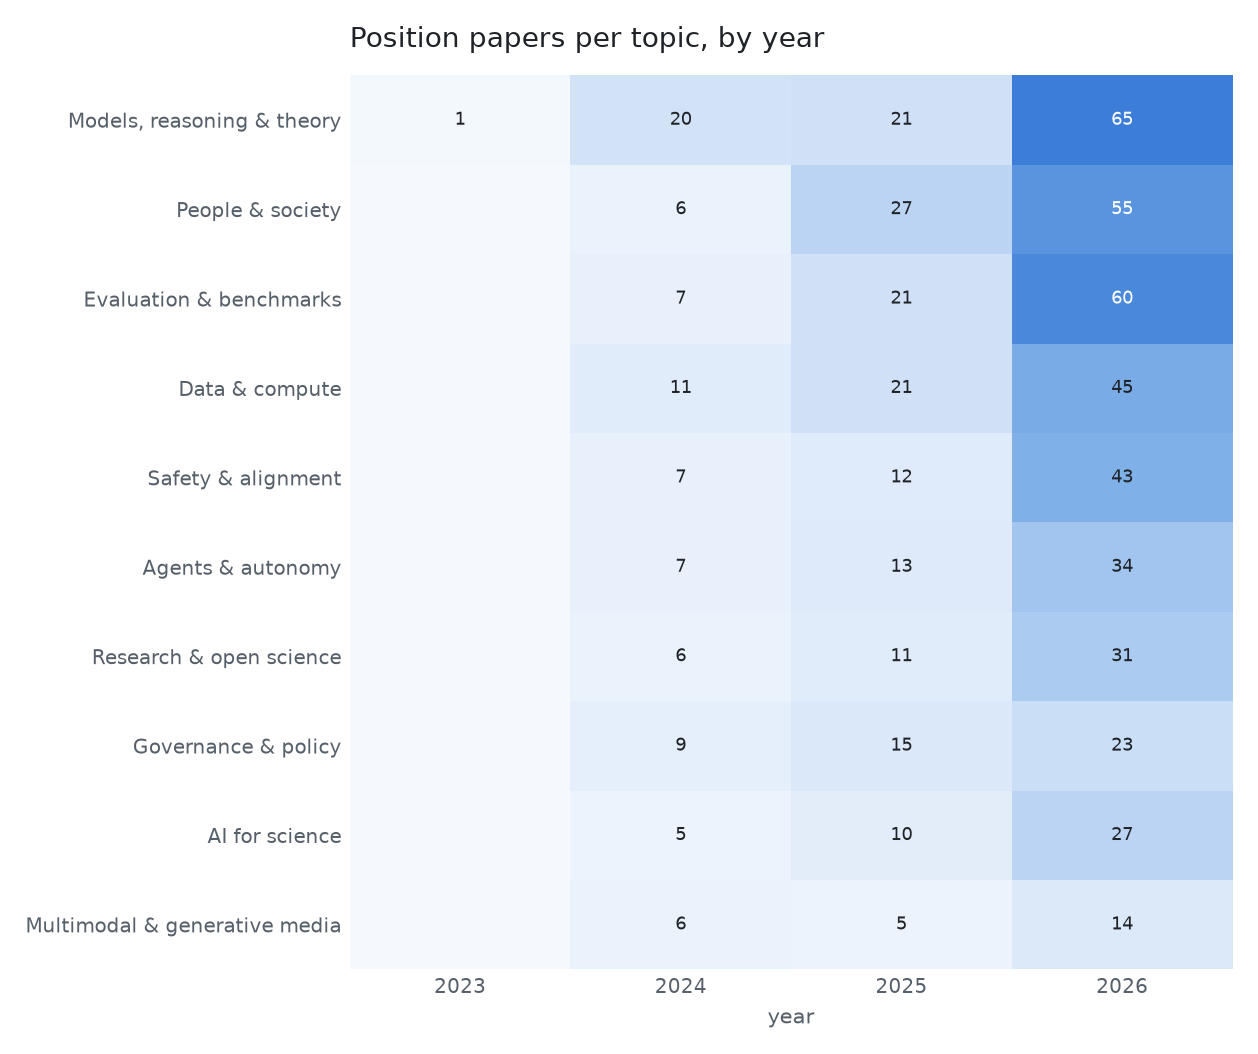
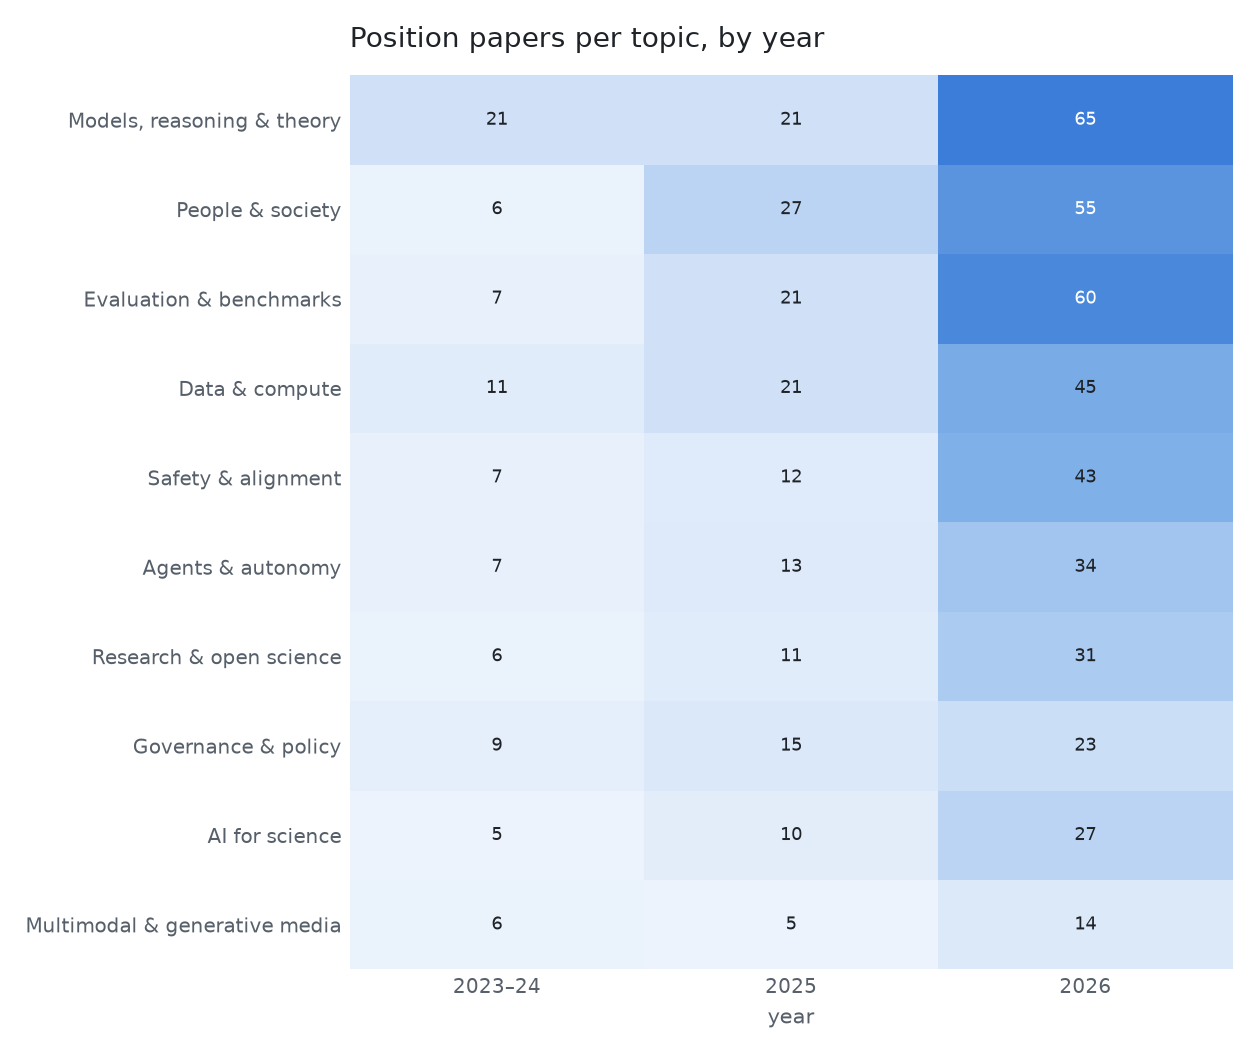
Polish: Pages link, one chart, hide zero citations, compact mobile header, update_all.sh

diff --git a/docs/index.html b/docs/index.html
@@ -145,9 +145,10 @@
     @media (max-width: 720px) {
       .container { width: min(100% - 28px, 1120px); }
       .header-inner { min-height: 66px; gap: 10px; }
-      .brand { max-width: 120px; line-height: 1.2; }
+      .brand { white-space: nowrap; font-size: 0.92rem; }
+      .brand-extra { display: none; }
       .header-actions { gap: 6px; }
-      .view-button, .theme-button { padding-inline: 10px; font-size: 0.85rem; }
+      .view-button, .theme-button { padding-inline: 9px; font-size: 0.85rem; }
       .hero { padding: 38px 0 26px; }
       .control-top, .paper-list { grid-template-columns: 1fr; }
       .controls { padding: 16px; }
@@ -166,7 +167,7 @@
   <a class="skip-link" href="#main">Skip to content</a>
   <header class="site-header">
     <div class="container header-inner">
-      <a class="brand" href="./">Awesome Position Papers</a>
+      <a class="brand" href="./"><span class="brand-extra">Awesome </span>Position Papers</a>
       <div class="header-actions">
         <nav class="view-nav" aria-label="Views">
           <button class="view-button" id="papers-view-button" type="button" aria-pressed="true" aria-controls="papers-view">Papers</button>
@@ -341,7 +342,7 @@
         var meta = element("div", "paper-meta");
         meta.appendChild(element("span", "topic-label", paper.topic));
         meta.appendChild(element("span", "", paper.venue + " · " + paper.year));
-        if (paper.citations !== null) { meta.appendChild(element("span", "", paper.citations + (paper.citations === 1 ? " citation" : " citations"))); }
+        if (paper.citations) { meta.appendChild(element("span", "", paper.citations + (paper.citations === 1 ? " citation" : " citations"))); }
         if (paper.essential) { meta.appendChild(element("span", "essential-badge", "Essential")); }
         card.appendChild(meta);
         card.appendChild(paperLink(paper, "h2"));

diff --git a/scripts/stats.py b/scripts/stats.py
@@ -36,24 +36,6 @@ def _figure_setup(fig, ax) -> None:
     ax.tick_params(colors=SOFT, length=0)
 
 
-def chart_topic(df: pd.DataFrame, out: str) -> None:
-    counts = df["topic"].value_counts(ascending=True)
-    fig, ax = plt.subplots(figsize=(7.4, 0.44 * len(counts) + 1.5), dpi=170)
-    _figure_setup(fig, ax)
-    bars = ax.barh(counts.index, counts.values, color=BLUE, height=0.62)
-    ax.set_xlim(0, counts.max() * 1.14)
-    ax.grid(axis="x", color=GRID, linewidth=0.8)
-    ax.set_axisbelow(True)
-    for b, v in zip(bars, counts.values):
-        ax.text(v + counts.max() * 0.012, b.get_y() + b.get_height() / 2, str(v),
-                va="center", ha="left", fontsize=8.5, color=SOFT)
-    ax.set_xlabel("papers", fontsize=9, color=SOFT)
-    ax.set_title("Position papers per topic", loc="left", fontsize=12, color=INK, pad=12)
-    fig.tight_layout()
-    fig.savefig(out, facecolor=BG)
-    plt.close(fig)
-
-
 def _matrix(ax, labels: list[str], cols: list[str], values: np.ndarray,
             colname: str) -> float:
     """Draw one annotated count matrix; returns the axis width used for labels."""
@@ -83,6 +65,15 @@ def chart_topic_year(df: pd.DataFrame, out: str) -> None:
     frame["year"] = pd.to_numeric(frame["year"], errors="coerce")
     frame = frame.dropna(subset=["year"])
     frame["year"] = frame["year"].astype(int)
+    # Years with only a handful of papers would be an almost empty column:
+    # fold them into the next year and label the column as a range.
+    per_year = frame["year"].value_counts().sort_index()
+    first = min(y for y, n in per_year.items() if n >= 10)
+    early = frame["year"] < first
+    label = {y: str(y) for y in per_year.index}
+    if early.any():
+        label[first] = f"{int(frame['year'].min())}–{str(first)[-2:]}"
+        frame.loc[early, "year"] = first
 
     order = list(df["topic"].value_counts().index)
     years = sorted(frame["year"].unique())
@@ -92,7 +83,7 @@ def chart_topic_year(df: pd.DataFrame, out: str) -> None:
 
     fig, ax = plt.subplots(figsize=(7.4, 0.44 * len(order) + 1.8), dpi=170)
     _figure_setup(fig, ax)
-    _matrix(ax, order, [str(y) for y in years], values, "year")
+    _matrix(ax, order, [label[y] for y in years], values, "year")
     ax.set_title("Position papers per topic, by year", loc="left",
                  fontsize=12, color=INK, pad=12)
     fig.tight_layout()
@@ -111,7 +102,6 @@ def main() -> None:
     df["year"] = pd.to_numeric(df["year"], errors="coerce")
 
     os.makedirs(C.ASSETS, exist_ok=True)
-    chart_topic(df, os.path.join(C.ASSETS, "papers_per_topic.png"))
     chart_topic_year(df, os.path.join(C.ASSETS, "papers_per_topic_by_year.png"))
 
     def counts(col: str) -> dict:
@@ -147,7 +137,7 @@ def main() -> None:
         "per_venue_year": venue_year,
         "per_track_year": track_year,
         "with_arxiv_id": int((df["arxiv_id"].astype(str).str.len() > 0).sum()),
-        "charts": ["assets/papers_per_topic.png", "assets/papers_per_topic_by_year.png"],
+        "charts": ["assets/papers_per_topic_by_year.png"],
     }
     C.write_json(stats, os.path.join(C.DATA, "stats.json"))
     print(f"stats: {stats['papers']} papers, {stats['topics']} topics, "

diff --git a/scripts/build_site.py b/scripts/build_site.py
@@ -159,9 +159,10 @@ HTML = r"""<!doctype html>
     @media (max-width: 720px) {
       .container { width: min(100% - 28px, 1120px); }
       .header-inner { min-height: 66px; gap: 10px; }
-      .brand { max-width: 120px; line-height: 1.2; }
+      .brand { white-space: nowrap; font-size: 0.92rem; }
+      .brand-extra { display: none; }
       .header-actions { gap: 6px; }
-      .view-button, .theme-button { padding-inline: 10px; font-size: 0.85rem; }
+      .view-button, .theme-button { padding-inline: 9px; font-size: 0.85rem; }
       .hero { padding: 38px 0 26px; }
       .control-top, .paper-list { grid-template-columns: 1fr; }
       .controls { padding: 16px; }
@@ -180,7 +181,7 @@ HTML = r"""<!doctype html>
   <a class="skip-link" href="#main">Skip to content</a>
   <header class="site-header">
     <div class="container header-inner">
-      <a class="brand" href="./">Awesome Position Papers</a>
+      <a class="brand" href="./"><span class="brand-extra">Awesome </span>Position Papers</a>
       <div class="header-actions">
         <nav class="view-nav" aria-label="Views">
           <button class="view-button" id="papers-view-button" type="button" aria-pressed="true" aria-controls="papers-view">Papers</button>
@@ -355,7 +356,7 @@ HTML = r"""<!doctype html>
         var meta = element("div", "paper-meta");
         meta.appendChild(element("span", "topic-label", paper.topic));
         meta.appendChild(element("span", "", paper.venue + " · " + paper.year));
-        if (paper.citations !== null) { meta.appendChild(element("span", "", paper.citations + (paper.citations === 1 ? " citation" : " citations"))); }
+        if (paper.citations) { meta.appendChild(element("span", "", paper.citations + (paper.citations === 1 ? " citation" : " citations"))); }
         if (paper.essential) { meta.appendChild(element("span", "essential-badge", "Essential")); }
         card.appendChild(meta);
         card.appendChild(paperLink(paper, "h2"));

diff --git a/scripts/needs_curation.py b/scripts/needs_curation.py
@@ -1,0 +1,42 @@
+"""List public papers that have no curated stance yet.
+
+Writes data/needs_curation.csv (id, title, venue, year, url, abstract) so a
+reviewer or model can write their rows in data/curated/stances.jsonl.
+"""
+
+from __future__ import annotations
+
+import csv
+import json
+import os
+import sys
+
+sys.path.insert(0, os.path.dirname(os.path.abspath(__file__)))
+import common as C  # noqa: E402
+
+
+def main() -> None:
+    curated_path = os.path.join(C.DATA, "curated", "stances.jsonl")
+    curated = set()
+    if os.path.exists(curated_path):
+        with open(curated_path, encoding="utf-8") as f:
+            curated = {json.loads(line)["id"] for line in f if line.strip()}
+    with open(os.path.join(C.DATA, "papers.csv"), encoding="utf-8", newline="") as f:
+        rows = [r for r in csv.DictReader(f)
+                if r["id"] not in curated and r.get("excluded", "false") != "true"]
+    cols = ["id", "title", "venue", "year", "url", "abstract"]
+    out = os.path.join(C.DATA, "needs_curation.csv")
+    if not rows:  # nothing to do: no file, so the repo only shows it when it matters
+        if os.path.exists(out):
+            os.remove(out)
+        print("needs curation: 0 papers")
+        return
+    with open(out, "w", encoding="utf-8", newline="") as f:
+        w = csv.DictWriter(f, fieldnames=cols, extrasaction="ignore")
+        w.writeheader()
+        w.writerows(rows)
+    print(f"needs curation: {len(rows)} papers -> data/needs_curation.csv")
+
+
+if __name__ == "__main__":
+    main()

diff --git a/README.md b/README.md
@@ -181,13 +181,13 @@ Coverage: **ICML 2024–2026** and **NeurIPS 2025–2026** position tracks, plus
 
 ## Full paper list
 
-[Open the searchable website](docs/index.html) for all 638 papers, with topic/venue/year filters and citation sorting.
+[Open the searchable website](https://liuyaojialiuyaojia.github.io/Awesome-Position-Papers/) for all 638 papers, with topic/venue/year filters and citation sorting.
 
 ## How it is built
 
 - `collect_*.py` gathers public metadata; `build_dataset.py` deduplicates it and applies curated topics, stances, and exclusions.
 - `fetch_citations.py` records dated OpenAlex counts; `stats.py` computes every number and chart; `build_readme.py` generates both guides.
-- Rebuild in order: `build_dataset.py`, `fetch_citations.py`, `stats.py`, `build_readme.py`, `build_site.py`; run each as `.venv/bin/python scripts/<script>`.
+- Rebuild everything with `bash scripts/update_all.sh`; new papers without curated text are listed in `data/needs_curation.csv`.
 
 ## Citation
 
@@ -198,7 +198,7 @@ Dataset and text: **CC BY 4.0** ([license](LICENSE)). Papers remain their author
   title        = {Awesome Position Papers: A Data-Backed Map of AI/ML Position Papers},
   author       = {Awesome Position Papers contributors},
   year         = {2026},
-  howpublished = {GitHub repository: awesome-position-papers},
+  howpublished = {\url{https://github.com/liuyaojialiuyaojia/Awesome-Position-Papers}},
   note         = {638 papers, CC BY 4.0}
 }
 ```

diff --git a/REPORT.md b/REPORT.md
@@ -158,18 +158,7 @@ title.
 From the repo root, with a fresh venv:
 
 ```bash
-python -m venv .venv
-.venv/bin/pip install -r requirements.txt
-
-.venv/bin/python scripts/collect_icml.py --year 2024
-.venv/bin/python scripts/collect_icml.py --year 2025
-.venv/bin/python scripts/collect_neurips.py
-.venv/bin/python scripts/collect_arxiv.py
-.venv/bin/python scripts/build_dataset.py
-.venv/bin/python scripts/fetch_citations.py   # OpenAlex; cached; no key required
-.venv/bin/python scripts/stats.py
-.venv/bin/python scripts/build_readme.py
-.venv/bin/python scripts/build_site.py
+bash scripts/update_all.sh   # creates .venv if needed, then runs every step in order
 ```
 
 Second runs are near-instant because every raw API response is cached under
